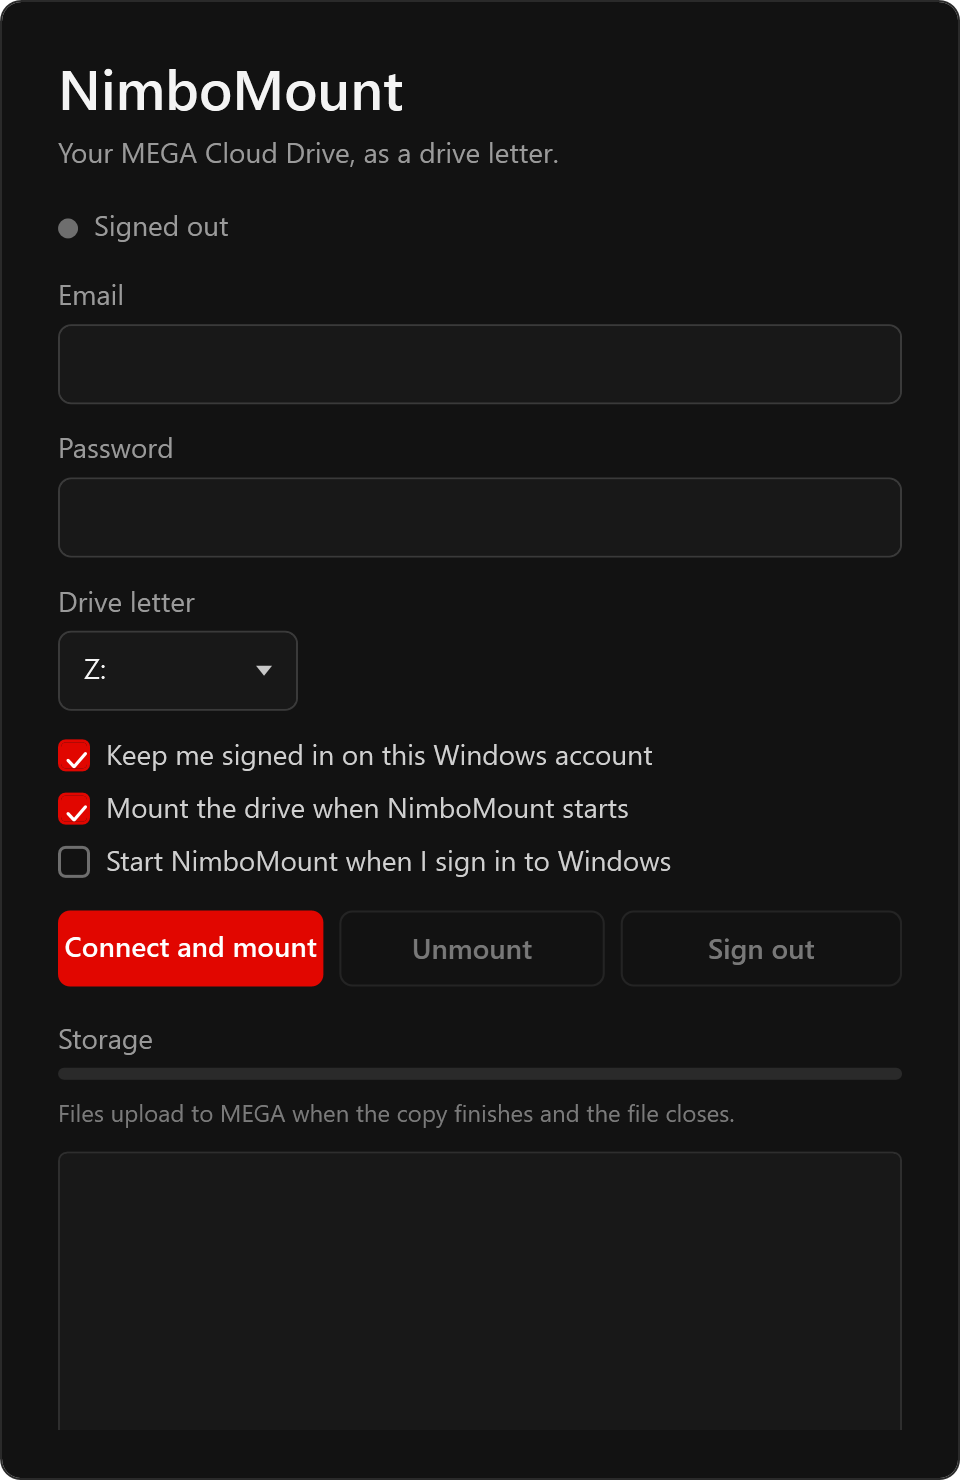
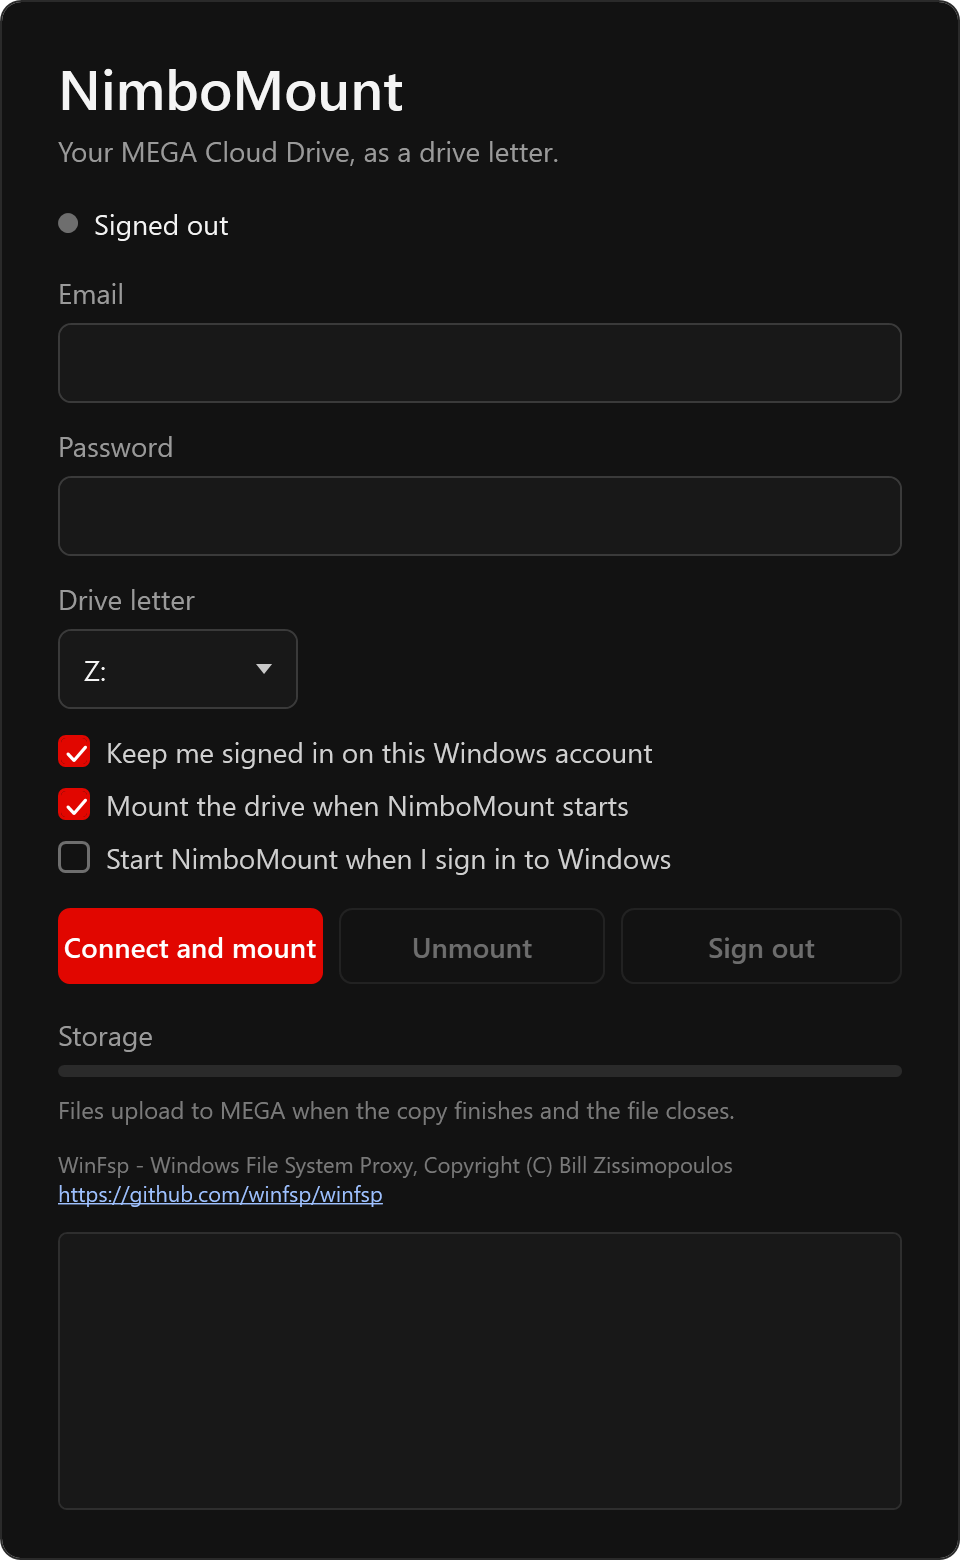
Update the project page and ship NimboMount 1.0.4.
The README links the setup download and shows the current window, including the WinFsp notice.

diff --git a/README.md b/README.md
@@ -7,7 +7,7 @@ NimboMount puts your MEGA cloud on a drive letter. Open it in File Explorer, cop
 NimboMount talks to MEGA directly.
 
 <p align="center">
-  <img src="docs/images/app.png" alt="The NimboMount window: email, password, drive letter, and Connect and mount." width="440">
+  <img src="docs/images/app.png" alt="The NimboMount window: email, password, drive letter, Connect and mount, and the WinFsp notice." width="440">
 </p>
 
 <p align="center">
@@ -20,14 +20,9 @@ NimboMount talks to MEGA directly.
 | --- | --- |
 | Windows | 64-bit |
 | License | [MIT](LICENSE) |
+| Setup | [NimboMount-Setup.exe](https://github.com/Coldsac/NimboMount/releases/latest/download/NimboMount-Setup.exe) |
 
-Run the setup:
-
-```text
-dist\NimboMount-Setup.exe
-```
-
-Setup asks for administrator approval. It installs WinFsp, then NimboMount, for every account on the PC.
+The setup asks for administrator approval. It installs WinFsp, then NimboMount, for every account on the PC.
 
 - WinFsp, which creates the drive letter
 - `C:\Program Files\NimboMount`
@@ -46,7 +41,7 @@ Build the installer from source:
 dotnet build installer\bundle\NimboMount.Bundle.wixproj -c Release
 ```
 
-The build downloads the official WinFsp 2.2 installer and checks its SHA-256 before it packs that file unchanged.
+The build writes `dist\NimboMount-Setup.exe`. It downloads the official WinFsp 2.2 installer and checks its SHA-256 before it packs that file unchanged.
 
 ## Sign in
 
